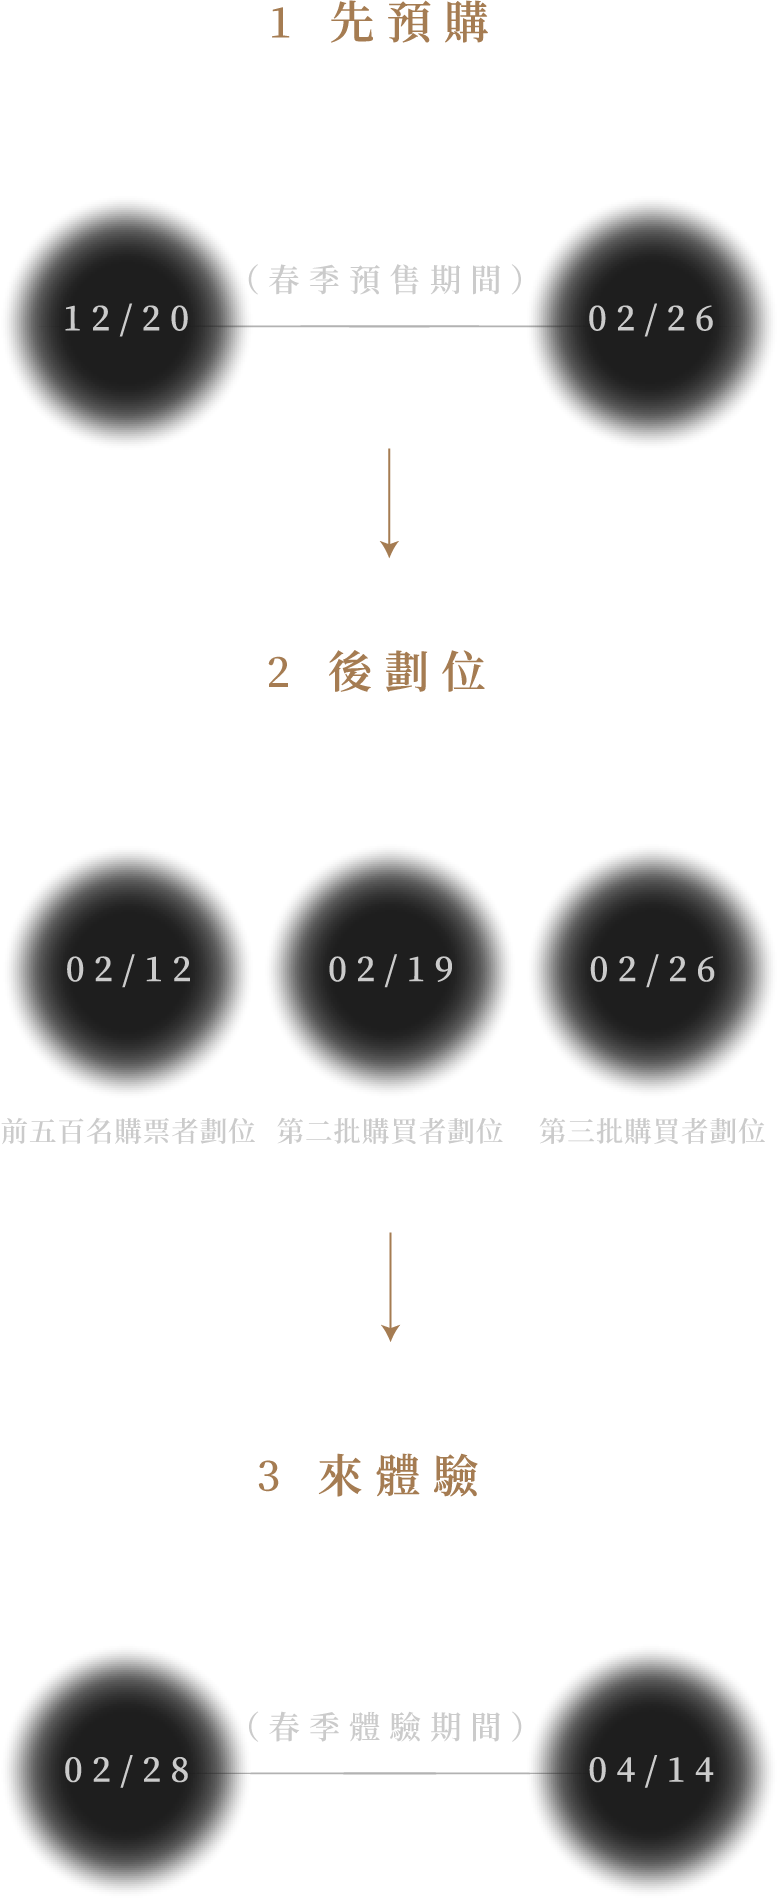
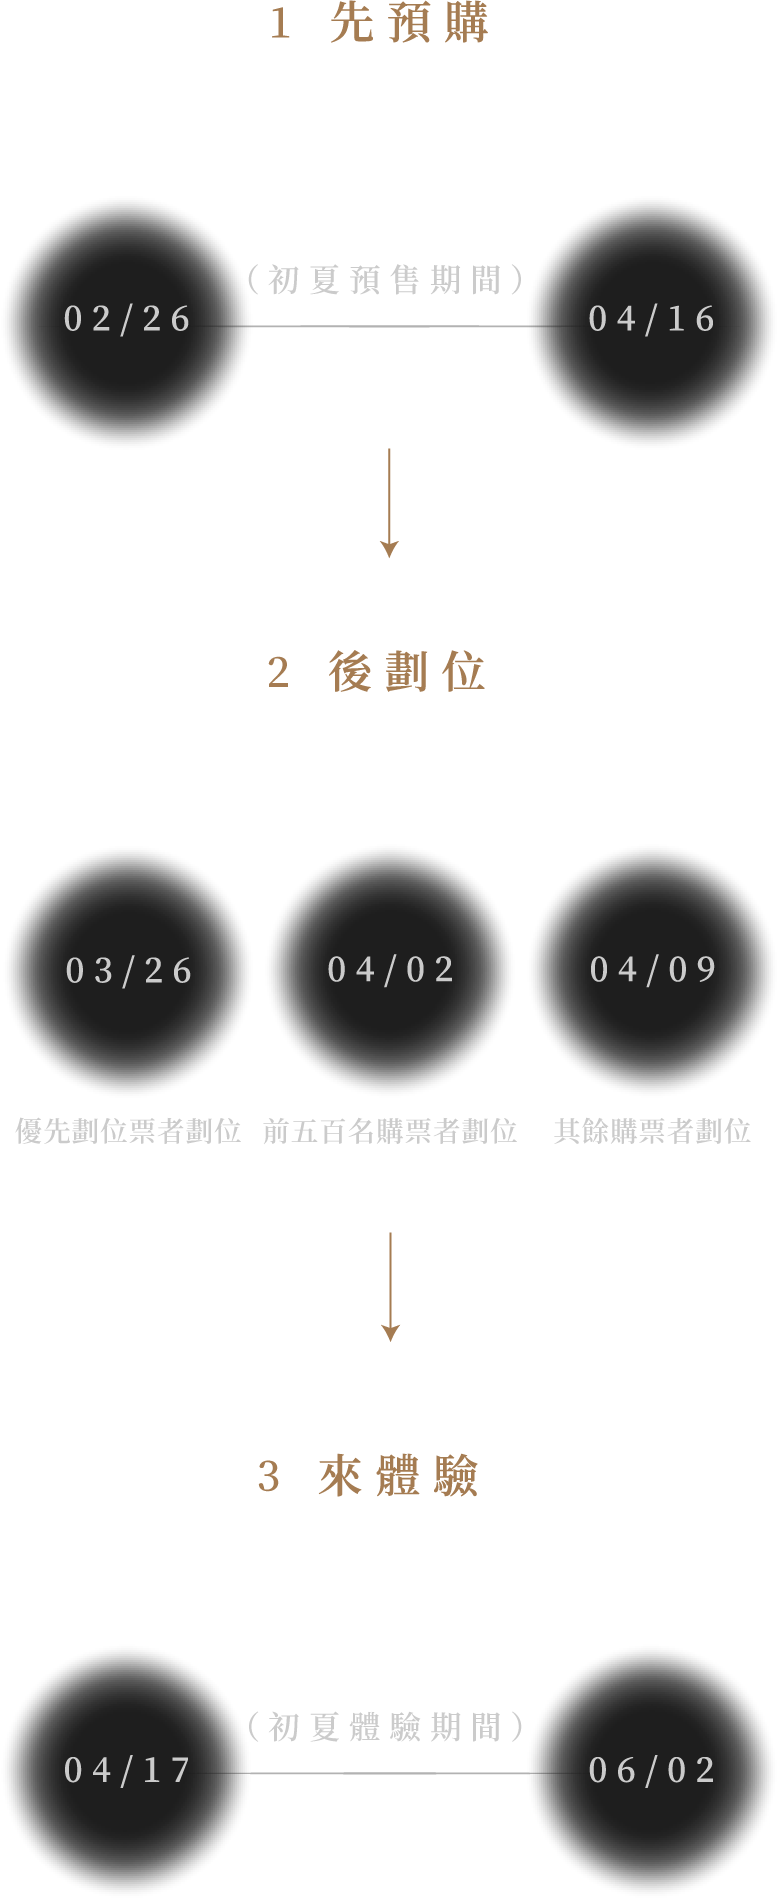
update dark2

diff --git a/public/d2one/js/backme.js b/public/d2one/js/backme.js
@@ -1,5 +1,5 @@
 $(function(){
-    $.get('https://surpriselab.backme.tw/api/projects/922.json?token=15171aa66ababafd4464a1c194b66102',function(data){
+    $.get('https://surpriselab.backme.tw/api/projects/937.json?token=15171aa66ababafd4464a1c194b66102',function(data){
         var item  = data.rewards;
         var sum   = 0;
         var pcent = 2000
@@ -36,10 +36,10 @@ $(function(){
             }
             var item_count = parseInt(item[i].pledged_count);
             switch(item[i].id){
-                case 5423: item_count *= 2; break;
-                case 5421: item_count *= 2; break;
-                case 5422: item_count *= 4; break;
-                case 5420: item_count *= 2; break;
+                case 5962: item_count *= 2; break;
+                case 5963: item_count *= 2; break;
+                case 5964: item_count *= 4; break;
+                case 5965: item_count *= 2; break;
             }
             sum += item_count;
         }

diff --git a/resources/views/Dark2/frontendone/about.blade.php b/resources/views/Dark2/frontendone/about.blade.php
@@ -100,8 +100,8 @@
                             </p>
                             
                             <div style="max-width: 860px;margin: 120px auto">
-                                <img style="width: 100%;" src="/d2one/images/timetable.png?v=0.3" alt="">
-                                <img style="width: 100%;" src="/d2one/images/m-timetable.png?v=0.3" alt="">
+                                <img style="width: 100%;" src="/d2one/images/timetable.png?v=0.4" alt="">
+                                <img style="width: 100%;" src="/d2one/images/m-timetable.png?v=0.4" alt="">
                             </div>
                         </div>
                         <div id="ticket" class="season-two-about ticket-type">
@@ -121,29 +121,29 @@
                             <div class="ticket-box">
                                 <div class="row">
                                     <div class="col-md-4">
-                                        <a href="https://surpriselab.backme.tw/checkout/922/5420?locale=zh-TW" id="a_5420">
+                                        <a href="https://surpriselab.backme.tw/checkout/937/5962?locale=zh-TW" id="a_5962">
                                             <img src="/d2one/images/ticket-1.png" alt="">
                                         </a>
                                     </div>
                                     <div class="col-md-4">
-                                        <a href="https://surpriselab.backme.tw/checkout/922/5421?locale=zh-TW" id="a_5421">
+                                        <a href="https://surpriselab.backme.tw/checkout/937/5963?locale=zh-TW" id="a_5963">
                                             <img src="/d2one/images/ticket-2.png" alt="">
                                         </a>
                                         <p>
-                                            限量<span id="limit_5421"></span>組｜剩餘<span id="count_5421"></span>組    
+                                            限量<span id="limit_5963"></span>組｜剩餘<span id="count_5963"></span>組    
                                         </p>
                                     </div>
                                     <div class="col-md-4">
-                                        <a href="https://surpriselab.backme.tw/checkout/922/5422?locale=zh-TW" id="a_5422">
+                                        <a href="https://surpriselab.backme.tw/checkout/937/5964?locale=zh-TW" id="a_5964">
                                             <img src="/d2one/images/ticket-3.png" alt="">
                                         </a>
                                         <p>
-                                            限量<span id="limit_5422"></span>組｜剩餘<span id="count_5422"></span>組    
+                                            限量<span id="limit_5964"></span>組｜剩餘<span id="count_5964"></span>組    
                                         </p>
                                     </div>
                                 </div>
                             </div>
-                            <!--
+                            
                             <div class="sec-title">
                                 優先劃位票
                                 <span>
@@ -155,19 +155,19 @@
                                 有特定日期需要慶祝、紀念、見面或是海外旅客，優先劃位票是最佳選擇
                             </p>
                             <p class="golden-font m-text-align-left">
-                                優先劃位票享第一梯次最優先劃位權<br class="hidden-xs">於02/05搶先選擇日期與時段劃位
+                                優先劃位票享第一梯次最優先劃位權<br class="hidden-xs">於03/26搶先選擇日期與時段劃位
                             </p>
                             <div class="special-ticket">
                                 <div>
-                                    <a href="https://surpriselab.backme.tw/checkout/922/5423?locale=zh-TW" id="a_5423">
+                                    <a href="https://surpriselab.backme.tw/checkout/937/5965?locale=zh-TW" id="a_5965">
                                         <img src="/d2one/images/ticket-4.png" alt="">
                                     </a>
                                     <p>
-                                        限量<span id="limit_5423"></span>組｜剩餘<span id="count_5423"></span>組    
+                                        限量<span id="limit_5965"></span>組｜剩餘<span id="count_5965"></span>組    
                                     </p>
                                 </div>
                             </div>
-                        -->
+                        
                         </div>
                         <div class="time-slot">
                             <h1 class="title">
@@ -178,7 +178,7 @@
                             </h3>
                             <div class="time-slot-box">
                                 <p class="golden-font">
-                                    春季座位 02/28-04/14<br>開放場次如下
+                                    初夏座位 04/17-06/02<br>開放場次如下
                                 </p>
                                 <table>
                                     <tr>
@@ -225,9 +225,9 @@
                                     Ticket Status
                                 </h3>
                                 <p>
-                                    春季預售<br>
-                                    訂購02/28-04/14座位<br>
-                                    錯過冬季的你，這次，別再錯過
+                                    初夏預售<br>
+                                    訂購04/17-06/02座位<br>
+                                    曾經錯過的你，這次，別再錯過
                                 </p>
                                 <div class="progress-bar-box">
                                     <div class="bar-box">
@@ -353,6 +353,6 @@
         </div>
 
     </div>
-    <script src="/d2one/js/backme.js?v=0.3"></script>
+    <script src="/d2one/js/backme.js?v=0.4"></script>
 </body>
 </html>

diff --git a/resources/views/Dark2/frontendone/rules.blade.php b/resources/views/Dark2/frontendone/rules.blade.php
@@ -90,6 +90,13 @@
                     <div class="main-container">
                         <h1>預售規則</h1>
                         <hr>
+                        <h4>【初夏座位】預售注意事項</h4>
+                        <ol>
+                            <li>無光初夏預售票販售⽇期為 02/26 - 04/16，座位區間為 04/17 - 06/02。</li>
+                            <li>購買預售票者若尚未劃位，於預售日結束前（04/16 ）來信 ，可享全額退費；購買預售票未劃位者，預售日結束後（04/17）至座位區間結束前（06/02）來信，退費款項將扣除 5%⾦流⼿續費。超過 06/02 後來信，因已過無光初夏體驗時間，將不予受理退費。</li>
+                            <li>初夏座位之預售票，僅能預訂 04/17 - 06/02 之座位。</li>
+                            <li>劃位後，若需要更改訂位⽇期或辦理退費，請依照「更改訂位與退費」規則辦理，若有任何問題，可來信 <a href="mailto:dininginthedark@surpriselab.com.tw">dininginthedark@surpriselab.com.tw</a> 詢問。</li>
+                        </ol>
                         <h4>【春季座位】預售注意事項</h4>
                         <ol>
                             <li>無光春季預售票販售⽇期為 12/20 - 02/26，座位區間為 02/28 - 04/14。</li>
